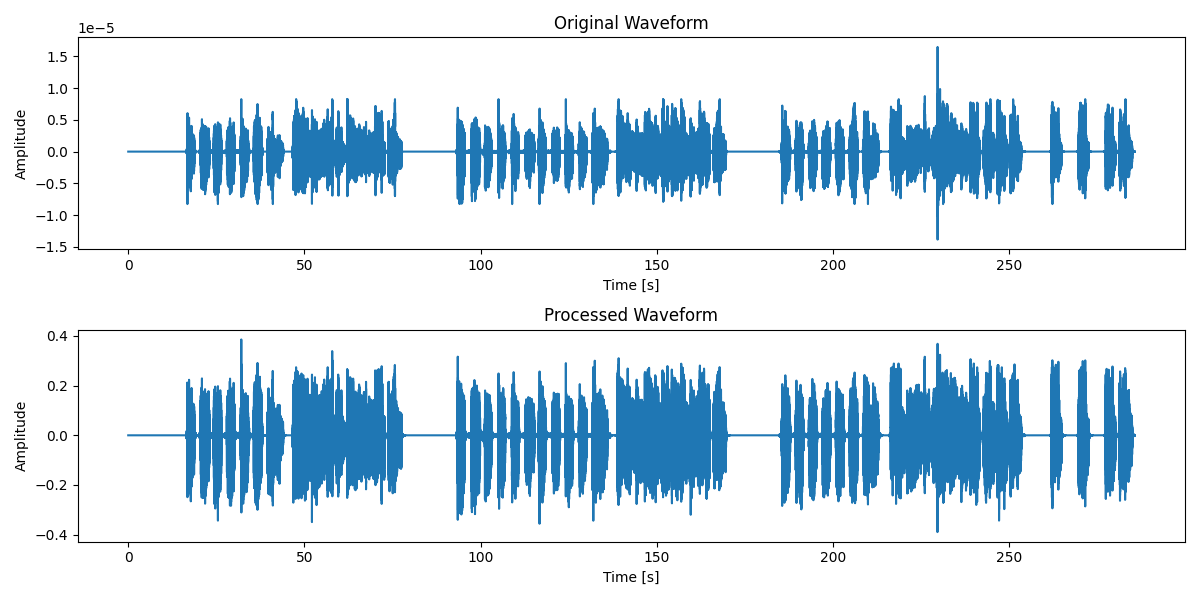
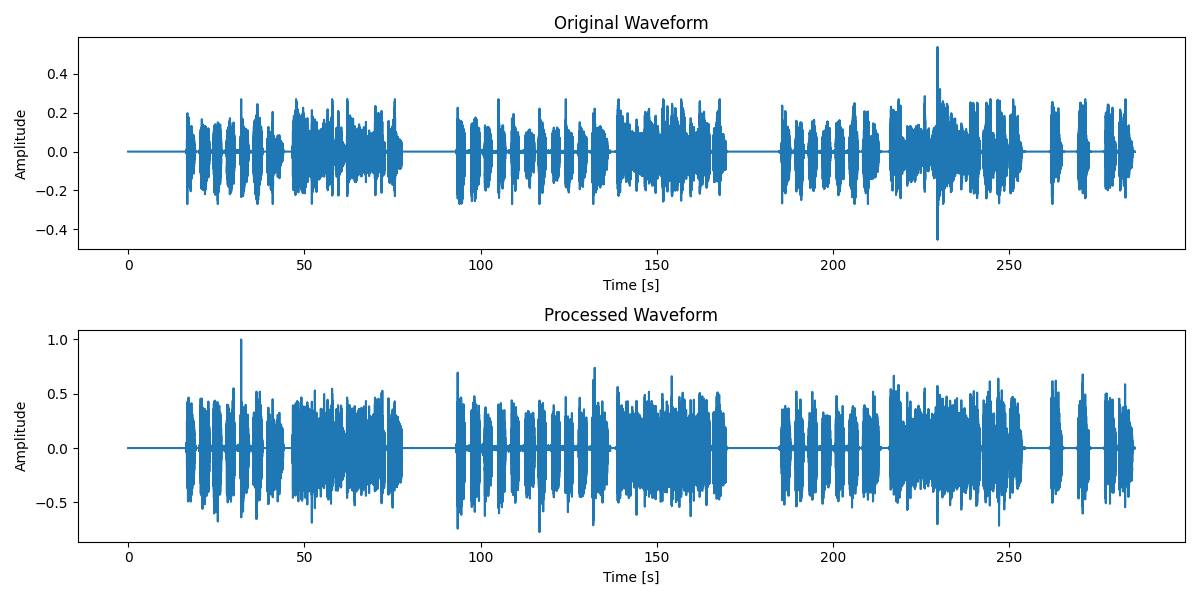
ノーマライズとコンプレッサーをチャンクに区切って処理する形式に変更

diff --git a/frontend/src/components/ResultPage.js b/frontend/src/components/ResultPage.js
@@ -74,8 +74,8 @@ function ResultPage() {
       //GainNode を使って音量調整
       const instGainNode = context.createGain();
       const vocalGainNode = context.createGain();
-      instGainNode.gain.value = instVolume;       // inst音量
-      vocalGainNode.gain.value = vocalVolume;     // ボーカル音量
+      instGainNode.gain.value = instVolume*0.5;       // inst音量
+      vocalGainNode.gain.value = vocalVolume*0.5;     // ボーカル音量 なんでかわからないけど音がでかいから両方半分にしてる(相対的には変わってないから機能的には大丈夫だと思う)
 
       //Source を useRef に保存し、GainNode 経由で接続
       const instSource = context.createBufferSource();

diff --git a/backend/testApp.py b/backend/testApp.py
@@ -4,16 +4,19 @@ import matplotlib.pyplot as plt
 from scipy.io import wavfile
 import soundfile as sf
 import logging
+import tempfile #一時ファイル用
+import shutil #ファイルコピー用
 
 # CHUNKサイズ（サンプル数）を設定
-CHUNK_SIZE = 1024
+CHUNK_SIZE = 1024*8
 
 
 #ファイル全体を一度読み込んで最大値を得る
 def get_peak(input_path):
     peak = 0.0
-    while True:
-        with sf.SoundFile(input_path) as sf_in :
+    with sf.SoundFile(input_path) as sf_in :
+        
+        while True:
             chunk = sf_in.read(CHUNK_SIZE, dtype='float32')
             if len(chunk) == 0 :
                 break
@@ -23,8 +26,8 @@ def get_peak(input_path):
             else:
                 data = chunk
             peak = max(peak, np.max(np.abs(data))) #保存されているpeakとchunk内の最大値を比較し、大きい方をpeakに保存する   
-        return peak    
-                    
+    print(peak)
+    return peak    
 
 def db_to_linear(db):
     """dB値からリニア振幅比に変換"""
@@ -34,7 +37,7 @@ def linear_to_db(linear):
     """リニア振幅比からdB値に変換"""
     return 20 * np.log10(np.maximum(linear, 1e-10))
 
-def compressor_envelope(data, threshold_db, ratio, attack_ms, release_ms, fs, knee_db):
+def compressor_envelope(audio_path, threshold_db, ratio, attack_ms, release_ms, fs, knee_db):
     """
     attack/releaseを持つソフトニーコンプレッサー処理
 
@@ -46,6 +49,75 @@ def compressor_envelope(data, threshold_db, ratio, attack_ms, release_ms, fs, kn
     fs: サンプリング周波数
     knee_db: ソフトニー幅（dB）
     """
+    with tempfile.NamedTemporaryFile(delete=False, suffix=".wav") as tmp: #一時ファイルを作成
+
+        temp_path = tmp.name
+        
+    prev_smoothed_gain = 1.0
+        
+    with sf.SoundFile(audio_path) as sf_in,\
+         sf.SoundFile(temp_path, mode='w', samplerate=sf_in.samplerate, channels=sf_in.channels, format=sf_in.format) as sf_out:
+         
+        while True :
+            chunk = sf_in.read(CHUNK_SIZE, dtype='float32')
+            if chunk.ndim == 2:
+                chunk = chunk[:, 0]
+
+            if len(chunk) == 0:
+                break
+            
+            else :
+                # 入力信号の絶対値をdBに変換
+                abs_db = linear_to_db(np.abs(chunk))
+
+                # ゲイン計算用の配列初期化
+                gain_reduction_db = np.zeros_like(abs_db)
+
+                # スレッショルド周辺のソフトニー処理
+                knee_start = threshold_db - knee_db / 2
+                knee_end = threshold_db + knee_db / 2
+
+                for i, level_db in enumerate(abs_db):
+                    if level_db < knee_start:
+                        gain_reduction_db[i] = 0  # スレッショルド以下は無圧縮
+                    elif level_db > knee_end:
+                        gain_reduction_db[i] = threshold_db + (level_db - threshold_db) / ratio - level_db
+                    else:
+                        # ソフトニー内はスムーズに減衰量を補間
+                        # 圧縮量 = x として線形補間（2次曲線で滑らかにしても良い）
+                        x = (level_db - knee_start) / knee_db
+                        compressed_db = threshold_db + (level_db - threshold_db) / ratio
+                        gain_reduction_db[i] = (1 - x) * 0 + x * (compressed_db - level_db)
+
+                # ゲインをリニアに戻す
+                target_gain = db_to_linear(gain_reduction_db)
+
+                # アタック・リリースの係数計算
+                attack_coef = np.exp(-1.0 / (attack_ms * 0.001 * fs))
+                release_coef = np.exp(-1.0 / (release_ms * 0.001 * fs))
+
+                smoothed_gain = np.zeros_like(target_gain)
+                smoothed_gain[0] = prev_smoothed_gain # 前チャンクの最後のゲインを引き継ぐ
+
+                for i in range(1, len(target_gain)):
+                    if target_gain[i] < smoothed_gain[i-1]:
+                        smoothed_gain[i] = attack_coef * smoothed_gain[i-1] + (1 - attack_coef) * target_gain[i]
+                    else:
+                        smoothed_gain[i] = release_coef * smoothed_gain[i-1] + (1 - release_coef) * target_gain[i]
+
+                prev_smoothed_gain = smoothed_gain[-1]  # 今回のチャンクの最後を保存        
+
+                # 入力信号にスムーズ化したゲインをかけて圧縮完了
+                chunk_compressed = chunk * smoothed_gain
+
+                sf_out.write(chunk_compressed)
+
+    os.replace(temp_path, audio_path)
+    print("コンプレッサー終了")
+
+    return audio_path
+
+"""
 
     # 入力信号の絶対値をdBに変換
     abs_db = linear_to_db(np.abs(data))
@@ -90,22 +162,52 @@ def compressor_envelope(data, threshold_db, ratio, attack_ms, release_ms, fs, kn
 
     return output
 
-def normalize_audio(data, target_level):
+"""   
+
+def normalize_audio(audio_path, target_level):
     """ピークをtarget_level(dB)にノーマライズ"""
-    peak = np.max(np.abs(data))
+    """audio_pathのデータを読み込んで、tempファイルに処理後のデータを書き出し。そのあとtempファイルをaudio_pathに上書き"""
+
+    logging.info("ピークを得ようとするよ")
+    peak = get_peak(audio_path)
     target_linear = db_to_linear(target_level)
+
     if peak == 0:
-        return data
-    return data * (target_linear / peak)
+        print("音声にピークがないので処理をスキップしました")
+        return
+    
+    with tempfile.NamedTemporaryFile(delete=False, suffix=".wav") as tmp: #一時ファイルを作成
+
+        temp_path = tmp.name
+
+    with sf.SoundFile(audio_path) as sf_in,\
+         sf.SoundFile(temp_path, mode='w', samplerate=sf_in.samplerate, channels=sf_in.channels, format=sf_in.format) as sf_out:
+         
+        while True :
+            chunk = sf_in.read(CHUNK_SIZE, dtype='float32')
+            if len(chunk) == 0:
+                break
+                
+            chunk_normalized = chunk * (target_linear / peak)  
+
+            sf_out.write(chunk_normalized)  
+    
+    os.replace (temp_path, audio_path) #一時ファイルの名前を元ファイルに置き換え(上書き)
+    print("ノーマライズ終了")
+
+    return audio_path    
+
 
 def apply_compressor(threshold_db, ratio, attack_ms, release_ms, fs, knee_db):
-    def processor(data):
-        return compressor_envelope(data, threshold_db, ratio, attack_ms, release_ms, fs, knee_db)
+    def processor(audio_path):
+        logging.info("コンプレッサーを開始するよ")
+        return compressor_envelope(audio_path, threshold_db, ratio, attack_ms, release_ms, fs, knee_db)
     return processor
 
 def apply_normalize(normalize_level_db):
-    def processor(data):
-        return normalize_audio(data, normalize_level_db)
+    def processor(audio_path):
+        logging.info("ノーマライズを開始するよ")
+        return normalize_audio(audio_path, normalize_level_db)
     return processor
 
 def apply_reverb(data, fs, decay, delay_ms, repeats, mix):
@@ -135,21 +237,16 @@ def apply_delay(data, fs, delay_ms, feedback, mix):
     result = np.clip(result, -1.0, 1.0)
     return result
 
-def apply_processing_chain(data, steps):
+def apply_processing_chain(audio_path, steps):
     for step in steps:
-        data = step(data)
-    return data
+        audio_path = step(audio_path)
+
+    return audio_path
 
 def process_audio_advanced(input_path, output_path,
                            threshold_db, ratio,
                            attack_ms, release_ms,
                            knee_db, normalize_level_db):
-    # 読み込み
-    data,fs = sf.read(input_path)
-
-    # ステレオ対応（左のみ）
-    if data.ndim == 2:
-        data = data[:, 0]
 
     # init16型を正規化(最大値32768で割る)
     #data = data.astype(np.float32) / 32768.0
@@ -159,23 +256,55 @@ def process_audio_advanced(input_path, output_path,
 
     # ノーマライズ
     #normalized = normalize_audio(compressed, normalize_level_db)
+    logging.info("音声処理に入った")
 
+    first_path = "before"+input_path
+
+    dst_dir = os.path.dirname(first_path)  # コピー先のディレクトリ
+
+    if not os.path.exists(dst_dir):
+        os.makedirs(dst_dir)  # コピー先のディレクトリがなければ作る
+    shutil.copyfile(input_path, first_path) #元データをfirst_pathにコピー
+
+    # 元データ読み込み
+    data,fs = sf.read(first_path)
+
+    
+    # ステレオ対応（左のみ）
+    if data.ndim == 2:
+        data = data[:, 0]
+
+
+    
+    logging.info("処理プロセス"),
     processing_steps = [
-        apply_normalize(normalize_level_db),  # ← ノーマライズ先
+        apply_normalize(normalize_level_db),  
         apply_compressor(threshold_db, ratio, attack_ms, release_ms, fs, knee_db),
         apply_compressor(threshold_db, ratio, attack_ms, release_ms, fs, knee_db),
         apply_normalize(normalize_level_db),
-        lambda data: apply_reverb(data, fs, decay=0.4, delay_ms=60, repeats=4, mix=0.2),
-        lambda data: apply_delay(data, fs, delay_ms=200, feedback=0.25, mix=0.4),
+        #lambda data: apply_reverb(data, fs, decay=0.4, delay_ms=60, repeats=4, mix=0.2),
+        #lambda data: apply_delay(data, fs, delay_ms=200, feedback=0.25, mix=0.4),
     ]
+    """
+    processed = apply_processing_chain(input_path, processing_steps)
+    """
+    processed_path = apply_processing_chain(input_path, processing_steps)
+    
+    #処理後のデータ読み込み
+    processed, fs_processed = sf.read(processed_path)
 
-    processed = apply_processing_chain(data, processing_steps)
+    if processed.ndim == 2:
+        processed = data[:, 0] #モノラル化
+
+    sf.write(output_path, processed, samplerate=fs, subtype='FLOAT')    
+
+
 
     # 出力
-    sf.write(output_path, processed, samplerate=fs, subtype='FLOAT')
+    #sf.write(output_path, processed, samplerate=fs, subtype='FLOAT')
 
     # グラフ描画
-    base_filename = os.path.basename(input_path)
+    base_filename = os.path.basename(first_path)
     graph_filename = f"graph_{os.path.splitext(base_filename)[0]}.png"
     if not os.path.exists('static'):
         os.makedirs('static')
@@ -202,18 +331,30 @@ def process_audio_advanced(input_path, output_path,
 
     return graph_filename
 
+def normalize_inst_audio(data, target_level): #inst用のノーマライズ関数
+    """ピークをtarget_level(dB)にノーマライズ"""
+    peak = np.max(np.abs(data))
+    target_linear = db_to_linear(target_level)
+    if peak == 0:
+        return data
+    return data * (target_linear / peak)
+
 
 #inst用の処理関数
 def process_mastering_audio(input_path, output_path, normalize):
     # 音声読み込み（float32で統一）
+
     data,fs = sf.read(input_path)
+
     #data = data.astype(np.float32) / 32768.0  # 16bit整数からfloatへ変換
 
     # ノーマライズ (値はボーカルに適応されてるものと同じ)
-    normalized = normalize_audio(data, normalize)
-
+    """
+    normalized = normalize_inst_audio(data, normalize)
+    """
+    
     # float形式で保存
-    sf.write(output_path, normalized, samplerate=fs, subtype='FLOAT')
+    sf.write(output_path, data, samplerate=fs, subtype='FLOAT')
 
 
 #mixの処理関数
